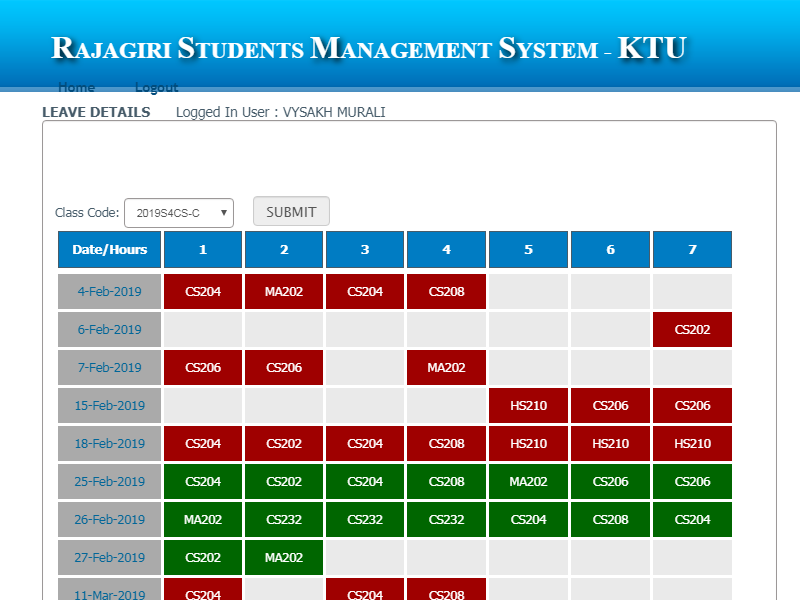
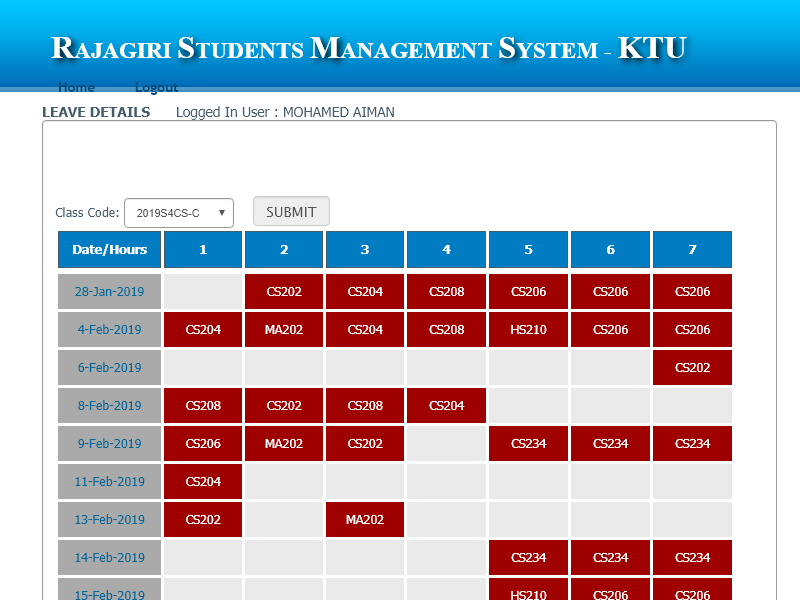
Session Added

diff --git a/app.js b/app.js
@@ -7,6 +7,7 @@ var JSAlert = require("js-alert");
 var schedule = require('node-schedule');
 var prependFile = require('prepend-file');
 var cron = require('node-cron');
+var session = require('client-sessions');
 app.use(bodyParser.urlencoded({ extended: true }));
 var uid;
 var absent={};
@@ -14,7 +15,7 @@ var new_absent={};
 var pass;
 var timetable_read={};
 var daily_timetable=[];
-var glo_id;
+// var req.session.user="";
 var inten_empty={};
 var intent_empty_string="none";
 var counter=0;
@@ -29,7 +30,7 @@ var per_arr=[];
 var bun_arr=[];
 var toatt_arr=[];
 // var day_att_counter=0;
-app.set('port',(process.env.PORT || 5000));
+// app.set('port',());
 var uid_list=["U1703137","U1703138","U1703139","U1703140","U1703141","U1703142","U1703143","U1703144","U1703145","U1703146","U1703147","U1703148","U1703149","U1703150","U1703151","U1703152","U1703153","U1703154","U1703155","U1703156","U1703157","U1703158","U1703159","U1703160","U1703161","U1703162","U1703163","U1703164","U1703165","U1703166","U1703167","U1703168","U1703169","U1703170","U1703171","U1703172","U1703173","U1703174","U1703175","U1703176","U1703177","U1703178","U1703179","U1703180","U1703181","U1703182","U1703183","U1703184","U1703185","U1703186","U1703187","U1703188","U1703189","U1703190","U1703191","U1703192","U1703193","U1703194","U1703195","U1703196","U1703197","U1703198","U1703199","U1703200","U1703201","U1703202","U1703203"]
 var auth={
 	'U1703137':{"name":"MOHAMED AIMAN","au_uid":"U1703137","au_pass":"17833","au_class":"S5-CSE-GAMMA"},
@@ -104,6 +105,13 @@ var week=["Sunday","Monday","Tuesday","Wednesday","Thursday","Friday","Saturday"
 app.use(bodyParser.urlencoded({extended:true}));
 app.use(express.static("styles"));
 
+app.use(session({
+  cookieName: 'session',
+  secret: 'random_string_goes_here',
+  duration: 30 * 60 * 1000,
+  activeDuration: 5 * 60 * 1000,
+}));
+
 var d=new Date();
 console.log("INITIAL"+d);
 var day=week[d.getDay()];
@@ -161,6 +169,9 @@ app.get("/login",function(req,res){
   res.render('login.ejs');
 });
 app.get("/home",function(req,res){
+	if(req.session.user==""){
+		res.redirect('login');
+	}else{
 	const fs = require('fs');
 	fs.readFile('data/checkbox.txt', 'utf-8', (err, data) => {
 		if (err) throw err;
@@ -170,23 +181,28 @@ app.get("/home",function(req,res){
 				if (err) throw err;
 				timetable_read=JSON.parse(data1)
 
-				res.render('profile.ejs',{stud_name:auth[glo_id].name , class_name:auth[glo_id].au_class,data:current_date,date:current_date,day:day,check_ed:" ",arr:daily_timetable,table_arr:timetable_read,hidstr:intent_empty_string,response:thk_res,hidyesorno:alter_table,absent_arr:abs_arr,summary_arr:sum_arr,percent_arr:per_arr,bunk_arr:bun_arr,attend_arr:toatt_arr});
+				res.render('profile.ejs',{stud_name:auth[req.session.user].name , class_name:auth[req.session.user].au_class,data:current_date,date:current_date,day:day,check_ed:" ",arr:daily_timetable,table_arr:timetable_read,hidstr:intent_empty_string,response:thk_res,hidyesorno:alter_table,absent_arr:abs_arr,summary_arr:sum_arr,percent_arr:per_arr,bunk_arr:bun_arr,attend_arr:toatt_arr});
 			});
 		}else{
 			fs.readFile('data/timetable.txt', 'utf-8', (err, data1) => {
 			if (err) throw err;
 			timetable_read=JSON.parse(data1)
-			res.render('profile.ejs',{stud_name:auth[glo_id].name , class_name:auth[glo_id].au_class,data:current_date,date:current_date,day:day,check_ed:"checked",arr:daily_timetable,table_arr:timetable_read,hidstr:intent_empty_string,response:thk_res,hidyesorno:alter_table,absent_arr:abs_arr,summary_arr:sum_arr,percent_arr:per_arr,bunk_arr:bun_arr,attend_arr:toatt_arr});
+			res.render('profile.ejs',{stud_name:auth[req.session.user].name , class_name:auth[req.session.user].au_class,data:current_date,date:current_date,day:day,check_ed:"checked",arr:daily_timetable,table_arr:timetable_read,hidstr:intent_empty_string,response:thk_res,hidyesorno:alter_table,absent_arr:abs_arr,summary_arr:sum_arr,percent_arr:per_arr,bunk_arr:bun_arr,attend_arr:toatt_arr});
 			});
 	}
 	});
+}
 });
 app.get("/logout",function(req,res){
-	glo_id="";
+	req.session.user="";
 	res.redirect("/login");
 })
 app.get("/instructions",function(req,res){
-	res.render('instructions.ejs',{stud_name:auth[glo_id].name , class_name:auth[glo_id].au_class});
+	if(req.session.user==""){
+		res.redirect('login');
+	}else{
+	res.render('instructions.ejs',{stud_name:auth[req.session.user].name , class_name:auth[req.session.user].au_class});
+}
 });
 app.post("/workday",function(req,res){
 	if(d.getDay()==0 || d.getDay()==6){
@@ -234,6 +250,9 @@ app.post('/edittable',function(req,res){
 	res.redirect('/home');
 });
 app.get("/timetable",function(req,res){
+	if(req.session.user==""){
+		res.redirect('login');
+	}else{
 	const fs = require('fs');
 	fs.readFile('data/timetable.txt', 'utf-8', (err, data) => {
 		if (err) throw err;
@@ -241,8 +260,9 @@ app.get("/timetable",function(req,res){
 		console.log("READ FILE");
 	});
 	setTimeout(function() {
-		res.render('ttable.ejs',{stud_name:auth[glo_id].name , class_name:auth[glo_id].au_class,table:timetable_read});
+		res.render('ttable.ejs',{stud_name:auth[req.session.user].name , class_name:auth[req.session.user].au_class,table:timetable_read});
 }, 3000);
+}
 });
 app.post("/timetable",function(req,res){
 	const fs = require('fs');
@@ -272,23 +292,26 @@ app.post("/timetable",function(req,res){
 	fs.writeFile('data/timetable.txt', JSON.stringify(req.body, null, 2) ,function(err,result){
 		console.log(" TIMETABLE WRITTEN");
 	});
-	res.render('ttable.ejs',{stud_name:auth[glo_id].name , class_name:auth[glo_id].au_class,table:req.body});
+	res.render('ttable.ejs',{stud_name:auth[req.session.user].name , class_name:auth[req.session.user].au_class,table:req.body});
 });
 app.get("/summary",function(req,res){
+	if(req.session.user==""){
+		res.redirect('login');
+	}else{
 	const fs = require('fs');
 	fs.readFile('data/summary.txt', 'utf-8', (err, data) => {
 		if (err) throw err;
 		summary=JSON.parse(data)
 		console.log(summary);
-		res.render('summary.ejs',{stud_name:auth[glo_id].name , class_name:auth[glo_id].au_class,sumarr:summary});
+		res.render('summary.ejs',{stud_name:auth[req.session.user].name , class_name:auth[req.session.user].au_class,sumarr:summary});
 	});
 
-
+}
 });
 app.post("/home",function(req,res){
   uid = req.body.user;
   pass = req.body.pass;
-	glo_id=uid;
+	// req.session.user=uid;
   var counter=0;
   for(var i=0;i<uid_list.length;i++){
     if(uid_list[i]===uid){
@@ -298,6 +321,7 @@ app.post("/home",function(req,res){
   }
   if(counter>0){
     if(auth[uid].au_uid===uid && auth[uid].au_pass===pass){
+				req.session.user = uid;
         console.log("Login Success " + auth[uid].name);
         (async () => {
           const browser = await puppeteer.launch({ headless: true , args: ['--no-sandbox', '--disable-setuid-sandbox']});
@@ -433,7 +457,7 @@ app.post("/home",function(req,res){
 														toatt_arr.push(att_count);
 													}
 													console.log(bun_arr);
-													res.render('profile.ejs',{stud_name:auth[glo_id].name , class_name:auth[glo_id].au_class,data:current_date,date:current_date,day:day,check_ed:" ",arr:day_table,table_arr:timetable_read,hidstr:intent_empty_string,response:thk_res,hidyesorno:alter_table,absent_arr:abs_arr,summary_arr:sum_arr,percent_arr:per_arr,bunk_arr:bun_arr,attend_arr:toatt_arr});
+													res.render('profile.ejs',{stud_name:auth[req.session.user].name , class_name:auth[req.session.user].au_class,data:current_date,date:current_date,day:day,check_ed:" ",arr:day_table,table_arr:timetable_read,hidstr:intent_empty_string,response:thk_res,hidyesorno:alter_table,absent_arr:abs_arr,summary_arr:sum_arr,percent_arr:per_arr,bunk_arr:bun_arr,attend_arr:toatt_arr});
 												});
 											});
 											//=========================================
@@ -531,7 +555,7 @@ app.post("/home",function(req,res){
 																bun_arr.push(bunk_count);
 																toatt_arr.push(att_count);
 															}
-															res.render('profile.ejs',{stud_name:auth[glo_id].name , class_name:auth[glo_id].au_class,data:current_date,date:current_date,day:day,check_ed:"checked",arr:day_table,table_arr:timetable_read,hidstr:intent_empty_string,response:thk_res,hidyesorno:alter_table,absent_arr:abs_arr,summary_arr:sum_arr,percent_arr:per_arr,bunk_arr:bun_arr,attend_arr:toatt_arr});
+															res.render('profile.ejs',{stud_name:auth[req.session.user].name , class_name:auth[req.session.user].au_class,data:current_date,date:current_date,day:day,check_ed:"checked",arr:day_table,table_arr:timetable_read,hidstr:intent_empty_string,response:thk_res,hidyesorno:alter_table,absent_arr:abs_arr,summary_arr:sum_arr,percent_arr:per_arr,bunk_arr:bun_arr,attend_arr:toatt_arr});
 												});
 											});
 										});
@@ -794,8 +818,8 @@ app.post("/home",function(req,res){
 		},{
 			timeZone:'Asia/Kolkata'
 		});
+// app.get('port')
 
-
-app.listen(app.get('port'),function(){
+app.listen(process.env.PORT || 5000,function(){
   console.log("Server Started");
 })
